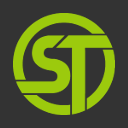
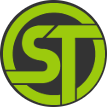
refactor: remove transparent

diff --git a/src/web/landing/landing.tsx b/src/web/landing/landing.tsx
@@ -12,7 +12,7 @@ export class ViewLandingPage extends React.Component {
                     <Link to={`/base/${ExampleBaseString}`}>Link</Link>
                 </div>
                 <div>
-                    <Link to={`/world/410/layout/56N8O.6C`}>Scan</Link>
+                    <Link to={`/world/410/layout/56N8O`}>Scan</Link>
                 </div>
                 <div>
                     <Link to={`/world/410/alliance/106`}>Alliance</Link>

diff --git a/src/scripts/pack-extension.ts b/src/scripts/pack-extension.ts
@@ -11,7 +11,7 @@ const ExtensionHeader = `// ==UserScript==
 // @grant           unsafeWindow
 // @version         ${Version.version}
 // @downloadURL     https://shockrtools.web.app/extension/st.user.js
-// @icon            https://shockrtools.web.app/128_transparent.62ead0d8.png
+// @icon            https://shockrtools.web.app/128.bb5c315c.png
 // ==/UserScript==`;
 
 function makeInjector(code: string) {

diff --git a/static/index.html b/static/index.html
@@ -10,7 +10,7 @@
     <link rel="stylesheet" href="../src/web/app.css">
 
     <script src="../build/src/web/index.js"></script>
-    <link rel="icon" type="image/x-icon" href="./128_transparent.png">
+    <link rel="icon" type="image/x-icon" href="./128.png">
 </head>
 
 <body>

diff --git a/src/web/app.css b/src/web/app.css
@@ -1,5 +1,5 @@
 .Icon {
-    background: url(../../static/128_transparent.png) no-repeat;
+    background: url(../../static/128.png) no-repeat;
     width: 32px;
     height: 32px;
     background-size: 100%;
